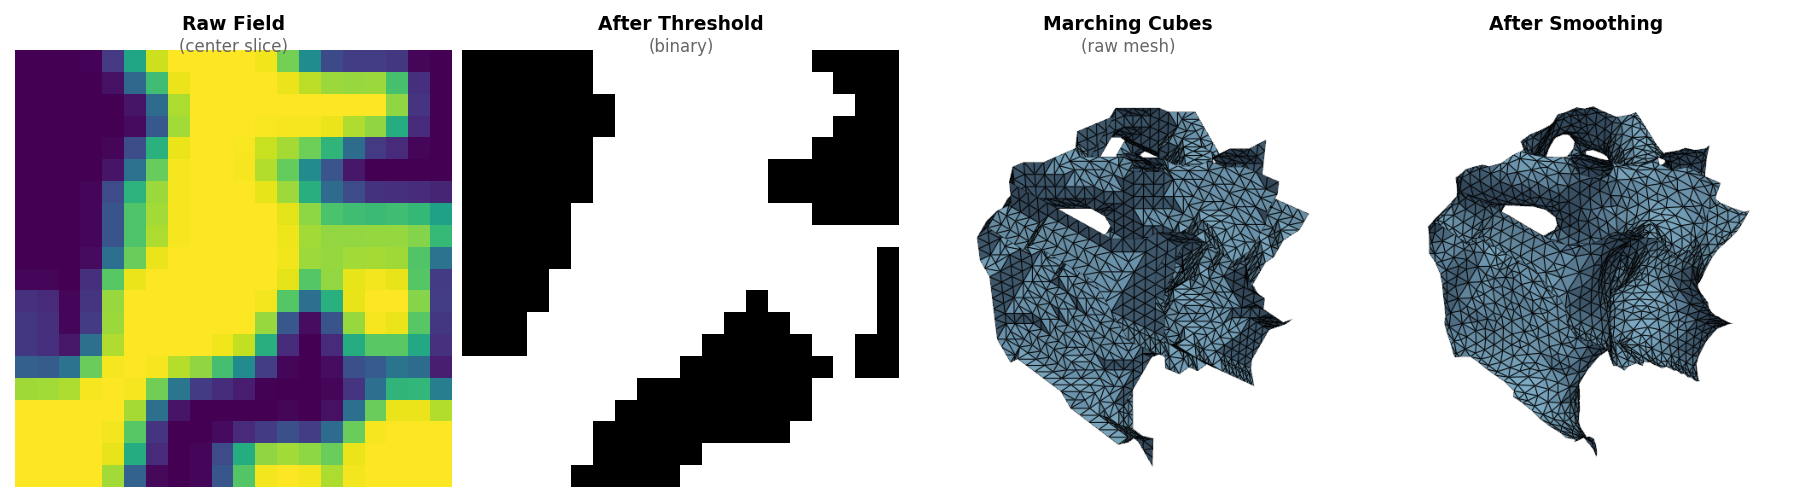
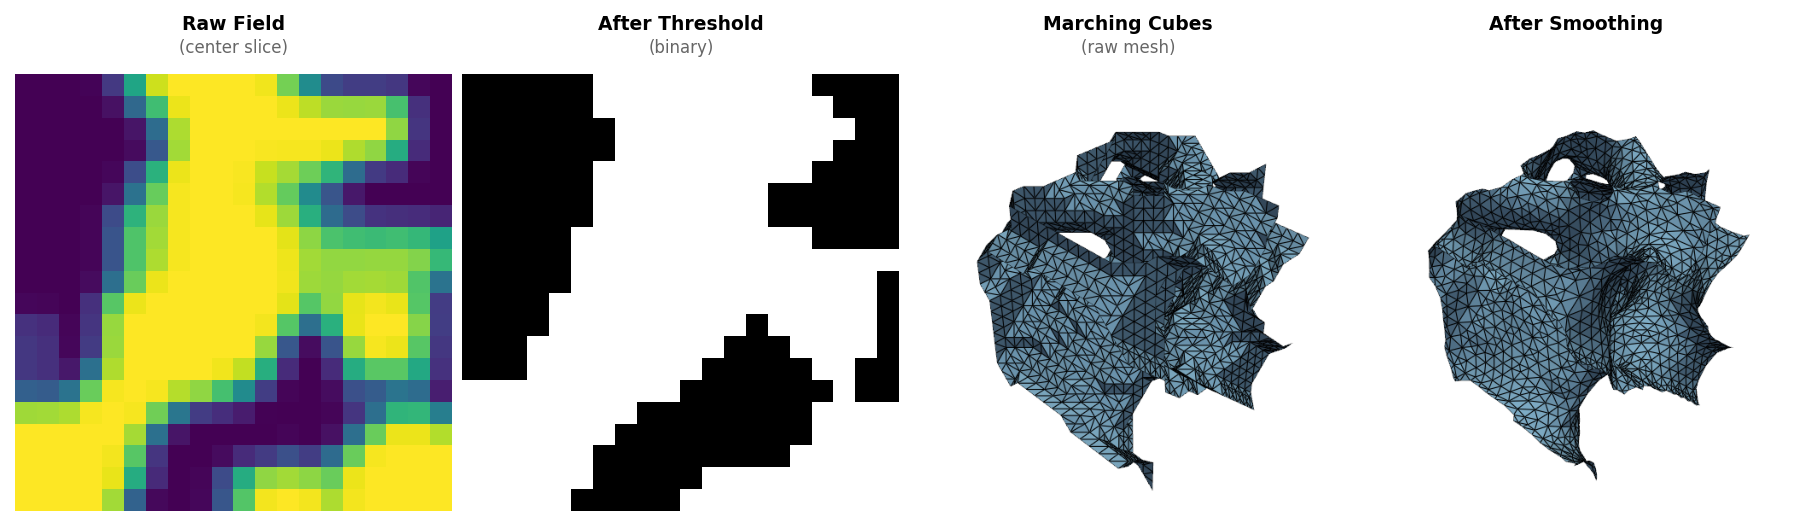
fix: finalize pipeline stages title spacing per user tweaks

diff --git a/scripts/generate_doc_images.py b/scripts/generate_doc_images.py
@@ -155,7 +155,7 @@ def gen_pipeline_stages() -> None:
     state_ext = extract(state_pre)
     state_smo = smooth(state_ext)
 
-    fig, axes = plt.subplots(1, 4, figsize=(12, 3.9))
+    fig, axes = plt.subplots(1, 4, figsize=(12, 4.0))
     # Main titles (line 1) and subtitles (line 2, parenthetical)
     main_titles = ["Raw Field", "After Threshold", "Marching Cubes", "After Smoothing"]
     subtitles = ["(center slice)", "(binary)", "(raw mesh)", ""]
@@ -188,7 +188,7 @@ def gen_pipeline_stages() -> None:
     for ax, main, sub in zip(axes, main_titles, subtitles, strict=True):
         bbox = ax.get_position()
         cx = bbox.x0 + bbox.width / 2
-        y_top = bbox.y1 + 0.06
+        y_top = bbox.y1 + 0.1
         fig.text(cx, y_top, main, ha="center", va="top", fontsize=9,
                  fontweight="bold")
         if sub:
